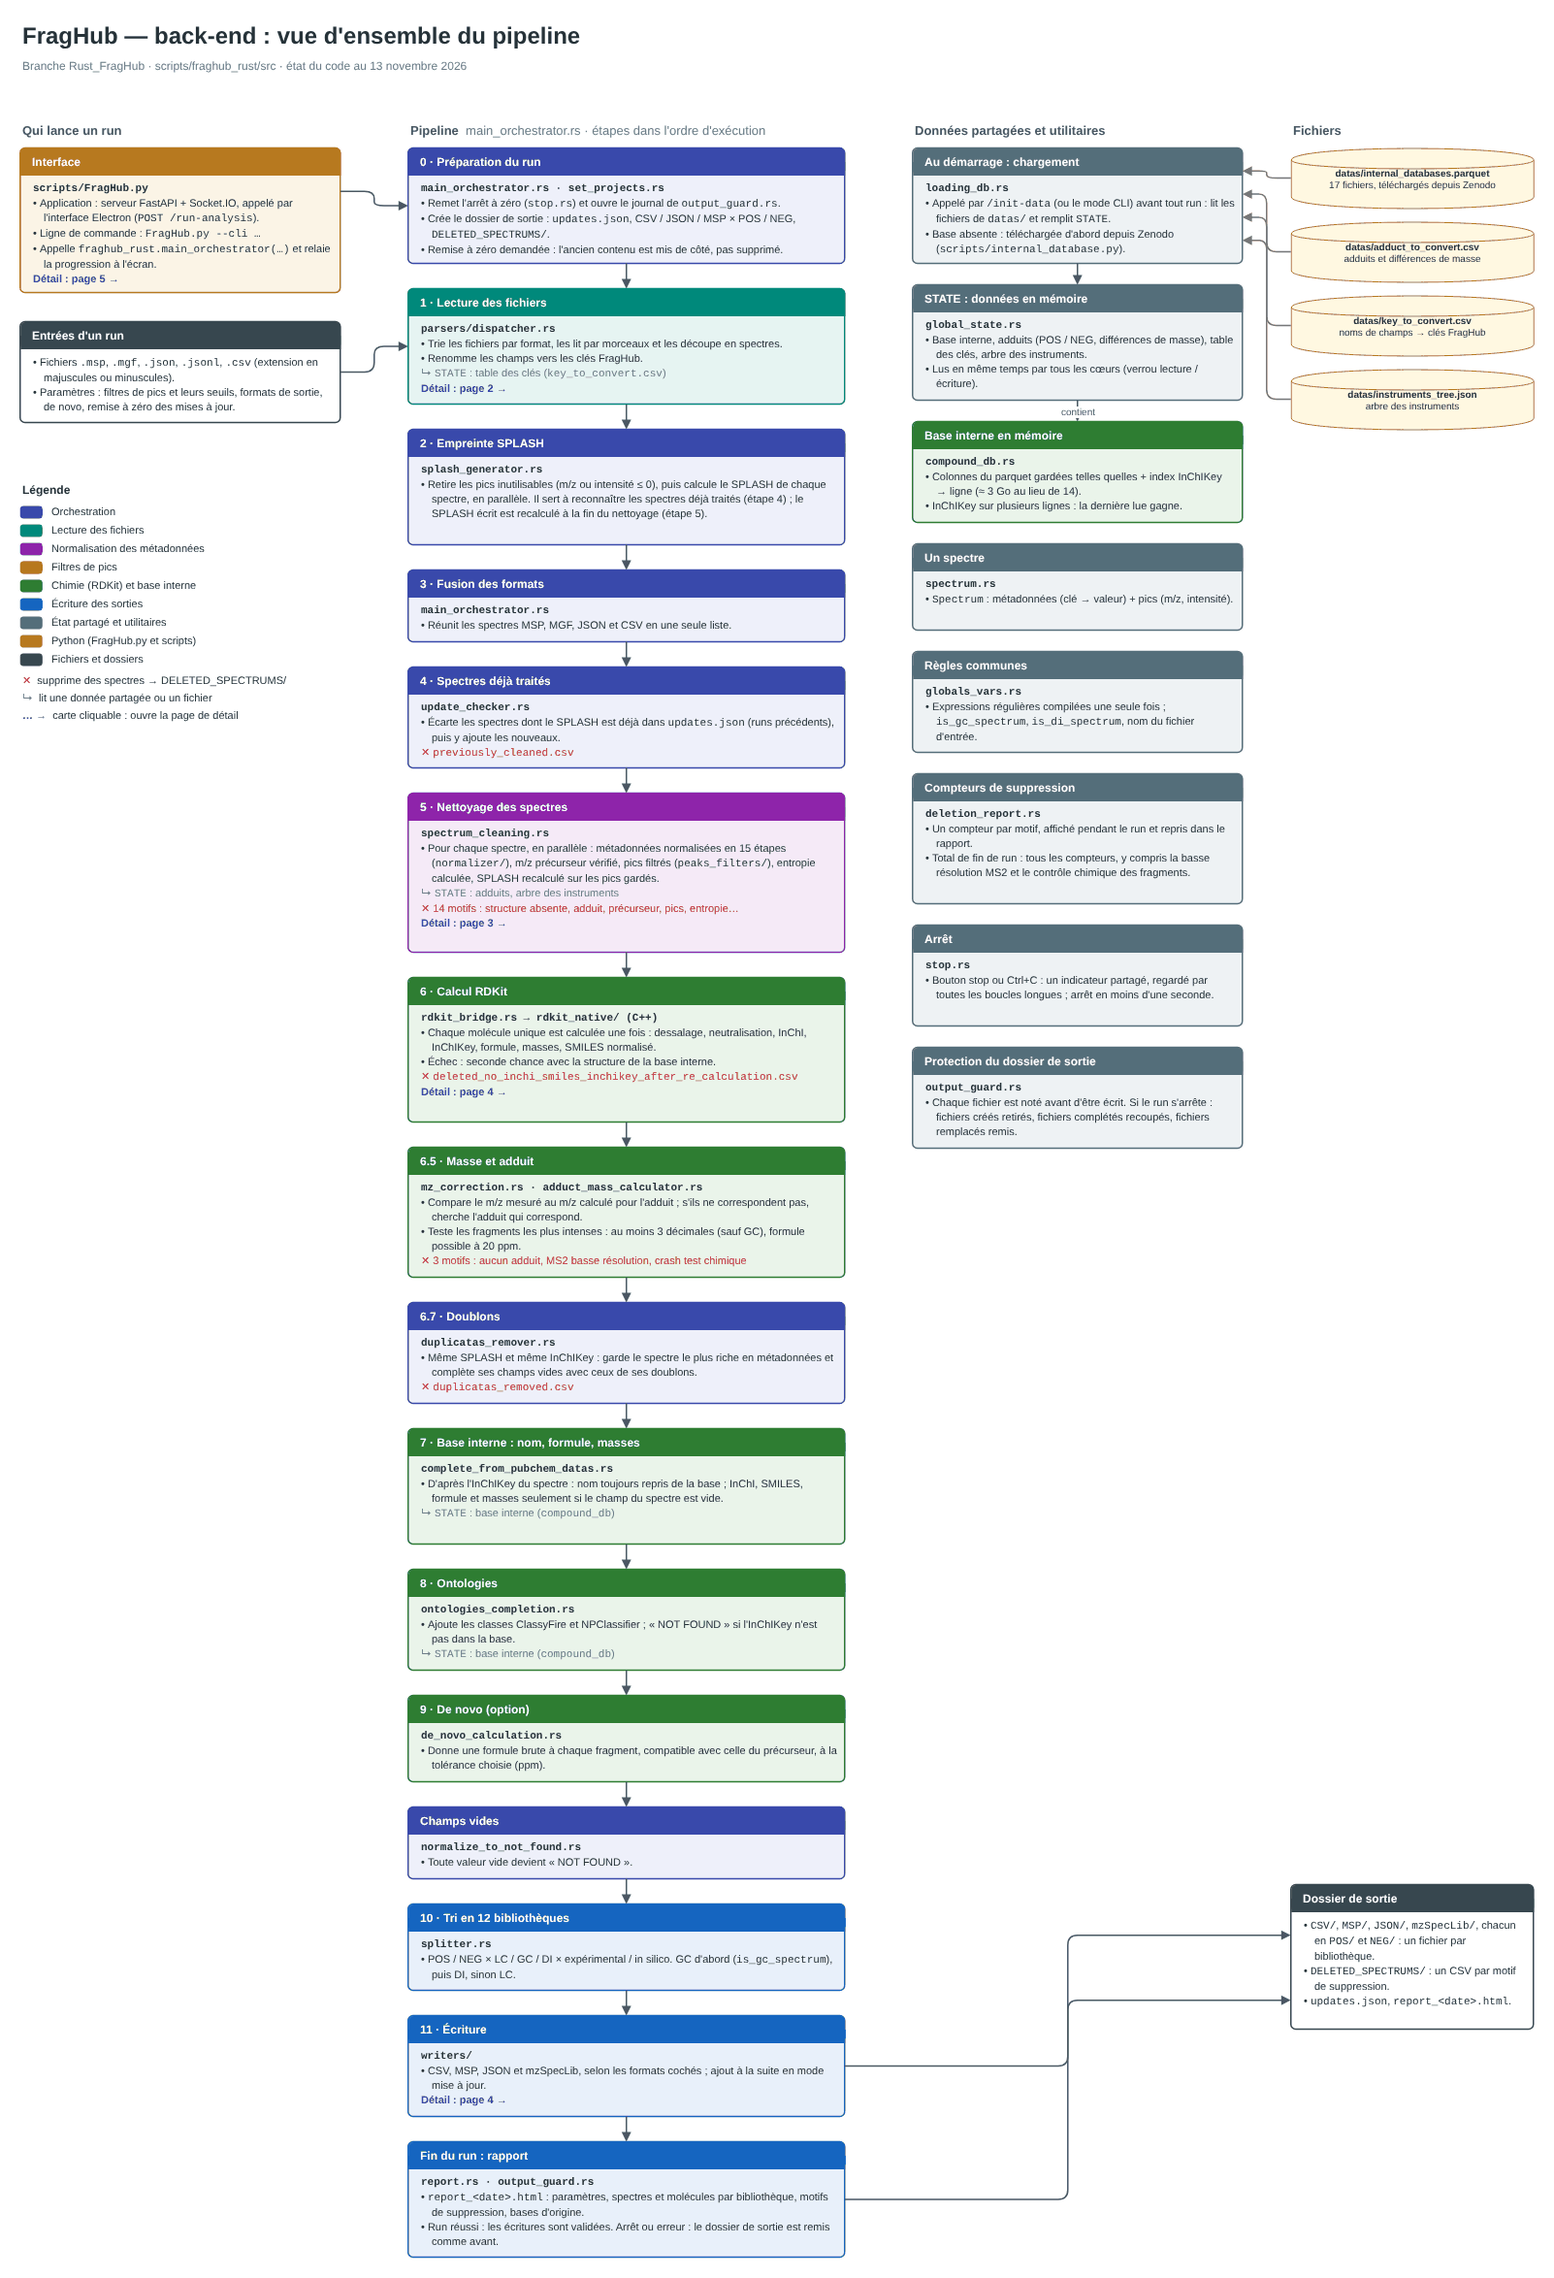
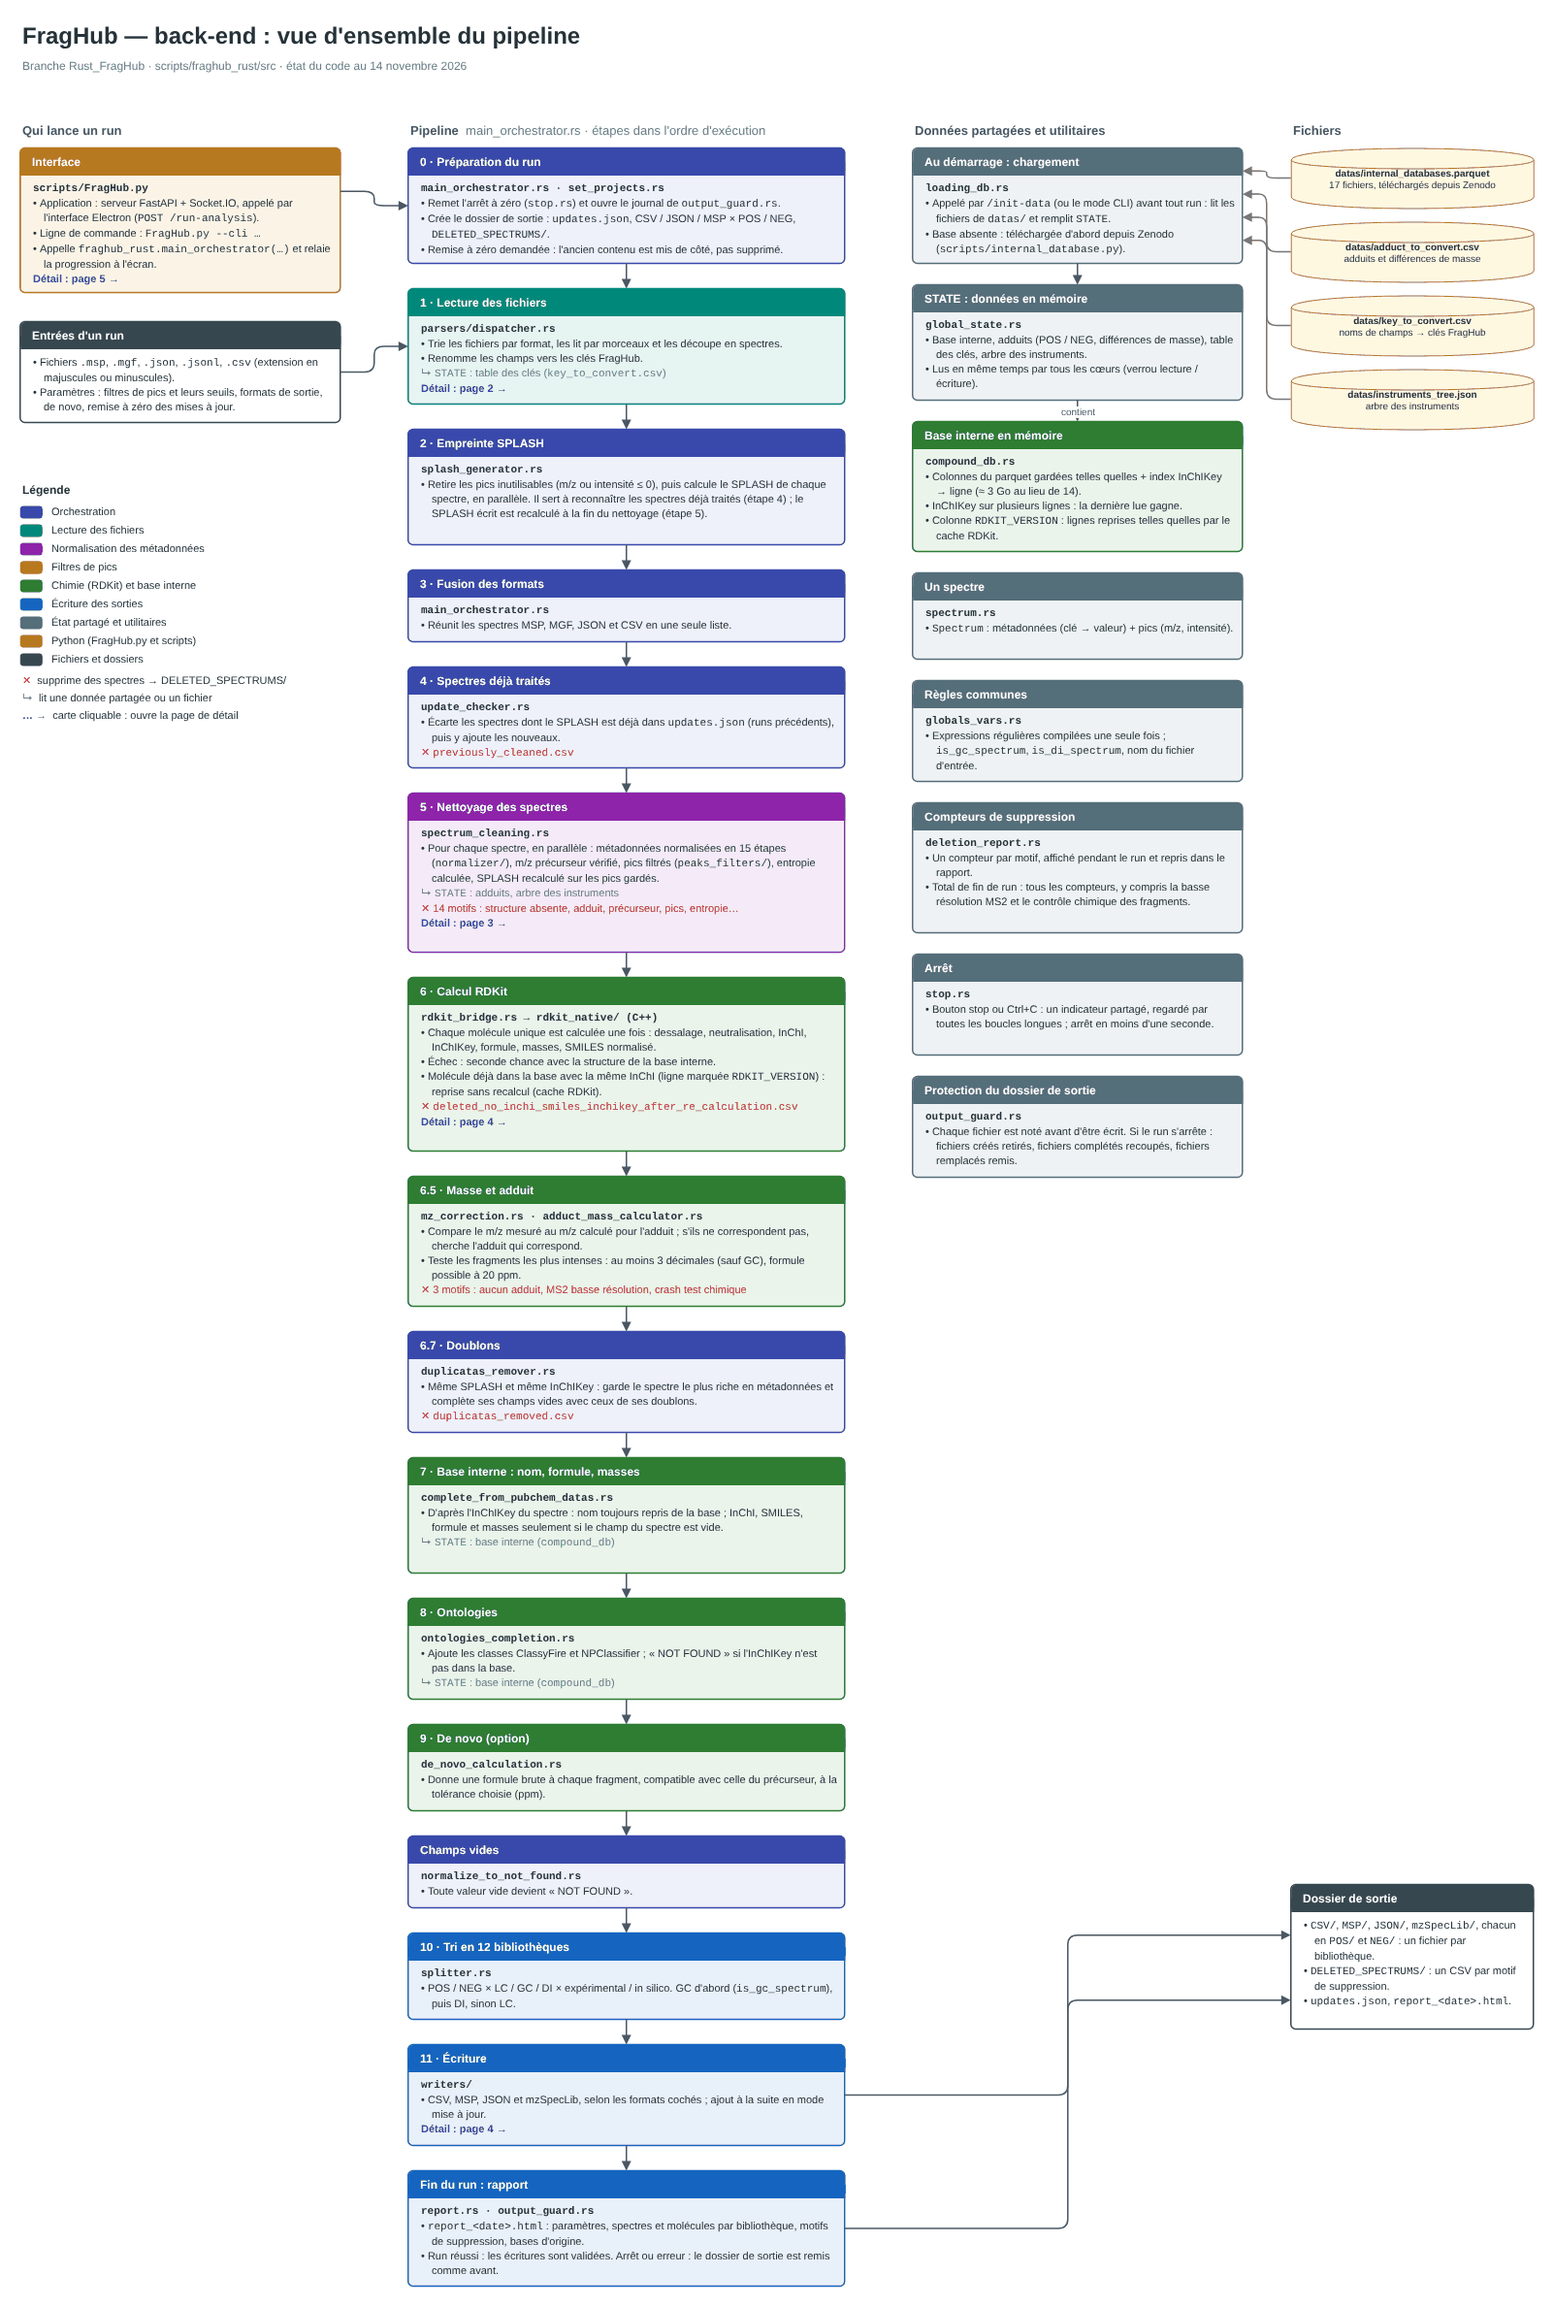
docs: README review, licences and citations, diagram captures, RDKit cache and database update rule

diff --git a/CHANGELOG.md b/CHANGELOG.md
@@ -46,6 +46,7 @@ All notable changes to this project will be documented in this file.
   - **Automatic tests** (`TESTS.md`, `python run_tests.py`): unit tests of the Rust engine (`cargo test`), of the Python scripts (`pytest`) and of the interface (`vitest`: every tab, the progress screen, the start of a run, with Electron and the server replaced by fakes), tests of the whole engine on a few hand-written spectra with a two-molecule database (every deletion reason, the twelve output libraries, update, stop, options), and an end-to-end test that compares every output file with a reference.
   - **Structure of the spectrum tried before the database when its InChI cannot be computed**: when RDKit fails on the InChI of a spectrum that also has a SMILES, its own SMILES is computed before falling back to the SMILES of the internal database (found by InChIKey). The spectrum keeps its own structure instead of taking the one of the database; when its SMILES fails too, the database is used as before.
   - **Internal database updated with FragHub**: `datas/internal_database.json` now lists the versions published before (`previous_versions`). When the database on disk is one of them (for example after updating FragHub from git), it is replaced by the new version at the first start (download checked, old folder deleted once the new one is in place); if the download fails, the previous version is kept and the update is tried again at the next start. A database that is not a published version (recomputed locally) is still never replaced. `make_archive.py` carries the list over to each new version.
+  - **RDKit cache from the internal database**: a spectrum whose InChI is exactly the one of a row of the internal database marked `RDKIT_VERSION` (current RDKit version) takes the InChI, InChIKey, SMILES, formula and masses of that row instead of being recomputed (the tautomer search is about 95 % of the RDKit time). The mark is set by `renormalize_db.py` only on rows whose full computation from their own InChI gives back that InChI and these values, so the result is identical to the computation (checked on 22 621 molecules of real spectra: 0 differences, RDKit time 197 s → 105 s). Mixtures to desalt are always computed. `FRAGHUB_RDKIT_CACHE=0` turns it off. Needs a database version with the `RDKIT_VERSION` column; older databases are simply computed as before.
   - **Documentation**: README checked against the application (filters in the order they are applied, with their default values, deletion reasons, tabs and buttons, input and output formats, badges), section on the internal database with its metrics and ontology sunbursts (`scripts/build_dataset/database_metrics.py`), `documentation/README.md` with snapshots of the component diagrams, and the development mode of `documentation/Documentation.md` corrected (Electron loads the generated pages and the compiled back-end; `npm run electron:dev` does not exist).
 
 - **31_05_2026**:
